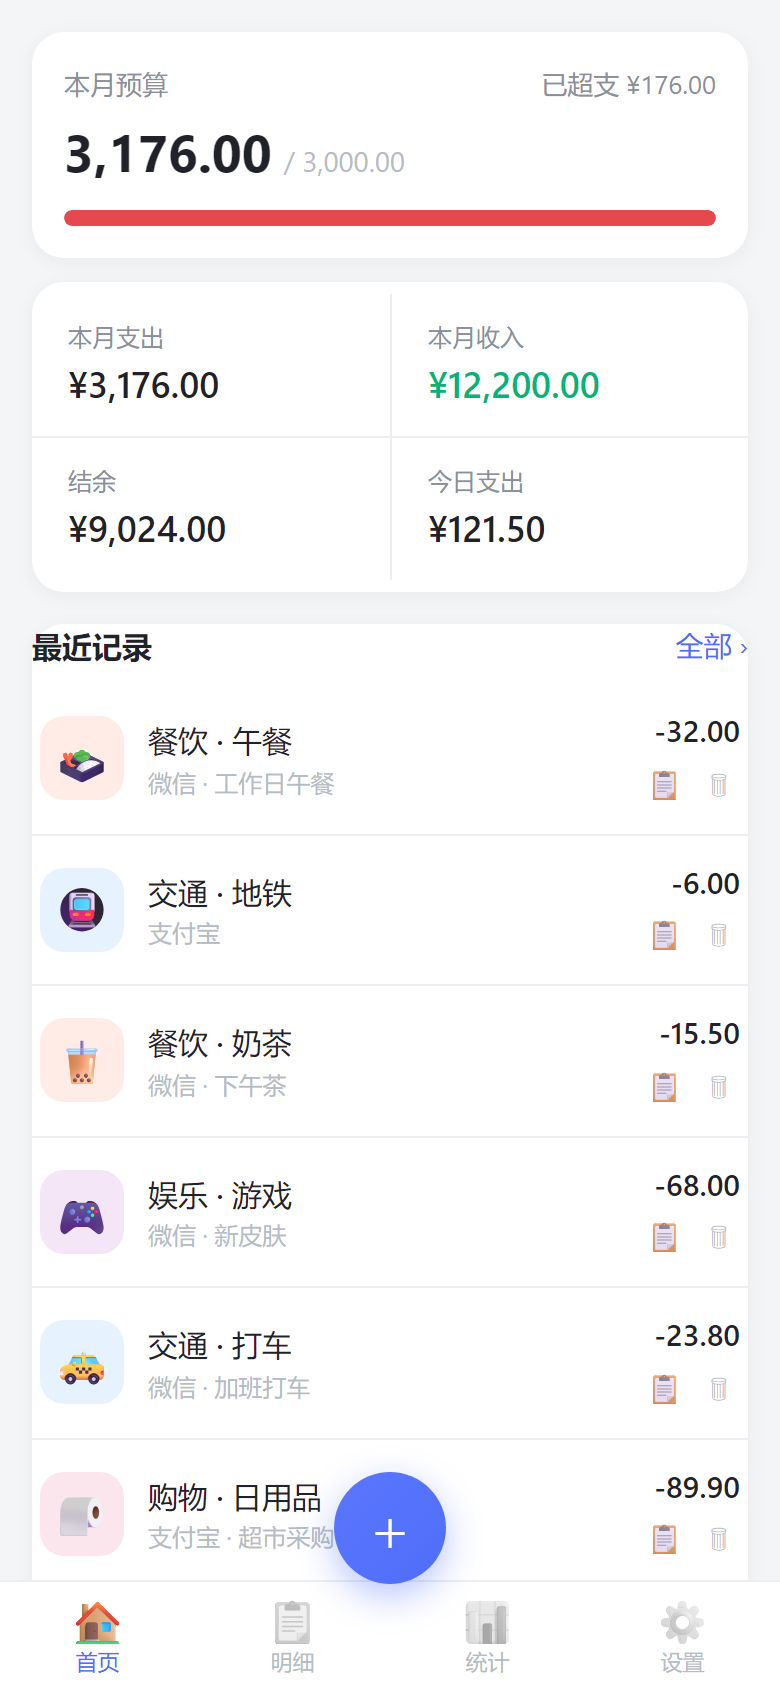
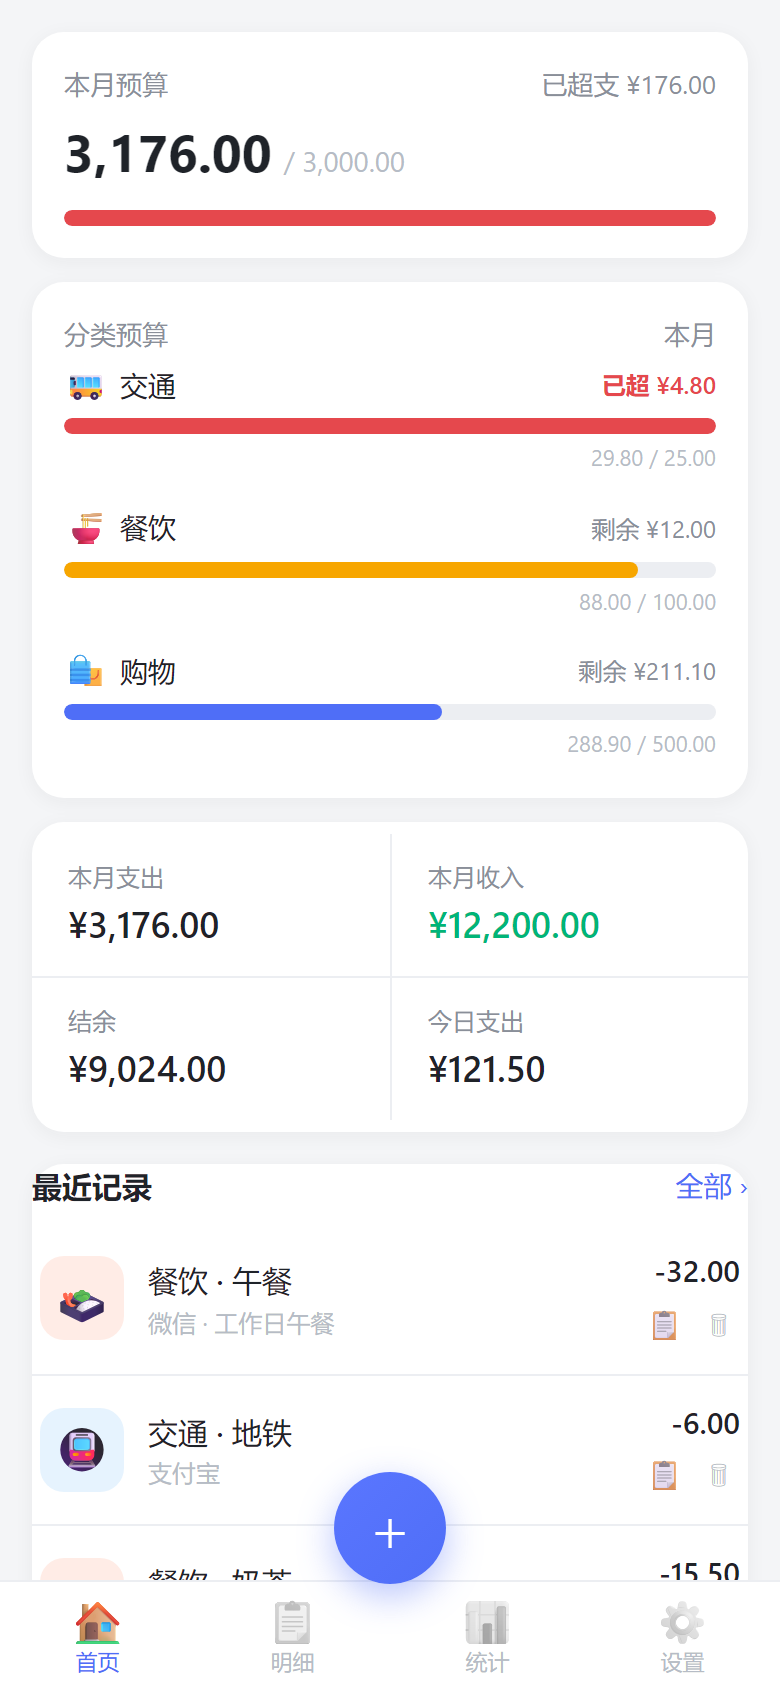
feat: 分类预算（按支出大类设置月度预算）
- 设置页新增「分类预算」子页，给支出大类逐个设金额，留空=不设
- 首页新增「分类预算」卡，只列已设项，按超支程度降序，沿用蓝/黄/红信号
- 记账或编辑保存时，若某分类跨过预算红线弹一次轻提示（不拦截）
- 删除分类时顺带清理其预算；导入导出带 categoryBudgets 并随 id 重映射
- 冒烟测试扩到 9 项，含导入往返验证预算在 id 重建后存活
- 更新 README、App 内帮助页与示例截图

diff --git a/js/app.js b/js/app.js
@@ -25,6 +25,7 @@ let transactions = [];
 let categories = [];
 let accounts = [];
 let budgetAmount = 0; // 分
+let categoryBudgets = {}; // { 支出大类ID: 分 }，只按月、只针对支出大类
 
 // ---------- 状态 ----------
 const state = {
@@ -67,15 +68,41 @@ function sumType(list, type) { return list.filter((t) => t.type === type).reduce
 
 // ---------- 数据加载 ----------
 async function loadData() {
-  const [t, c, a, budget] = await Promise.all([
+  const [t, c, a, budget, catBudgets] = await Promise.all([
     db.txns.all(), db.categories.all(), db.accounts.all(),
     db.settings.get('monthlyBudget', 0),
+    db.settings.get('categoryBudgets', {}),
   ]);
   transactions = t;
   categories = c;
   accounts = a;
   budgetAmount = budget;
+  categoryBudgets = (catBudgets && typeof catBudgets === 'object' && !Array.isArray(catBudgets)) ? catBudgets : {};
   transactions.sort((x, y) => y.date.localeCompare(x.date) || (y.createdAt || 0) - (x.createdAt || 0));
+}
+
+// 本月各支出大类的已花金额（子类自动汇总到父类）
+function monthSpentByRootCat(excludeId = null) {
+  const tm = thisMonthKey();
+  const map = new Map();
+  transactions.forEach((t) => {
+    if (t.type !== 'expense' || monthKey(t.date) !== tm) return;
+    if (excludeId && t.id === excludeId) return;
+    const rid = rootCatId(t.categoryId);
+    map.set(rid, (map.get(rid) || 0) + t.amount);
+  });
+  return map;
+}
+
+// 已设预算的支出大类，按「超支程度」降序（有问题的排前面）
+function categoryBudgetRows(spentMap) {
+  return Object.entries(categoryBudgets)
+    .filter(([cid, limit]) => limit > 0 && catById(cid))
+    .map(([cid, limit]) => {
+      const used = spentMap.get(cid) || 0;
+      return { cat: catById(cid), limit, used, ratio: used / limit };
+    })
+    .sort((a, b) => b.ratio - a.ratio);
 }
 
 // ---------- 渲染入口 ----------
@@ -141,6 +168,7 @@ function renderHome() {
   return `
   <div class="page home-page">
     ${budgetHtml}
+    ${renderCategoryBudgetCard()}
     <div class="overview-card">
       <div class="ov-item"><div class="ov-label">本月支出</div><div class="ov-val">${fmtMoney(expense)}</div></div>
       <div class="ov-item"><div class="ov-label">本月收入</div><div class="ov-val ov-in">${fmtMoney(income)}</div></div>
@@ -151,6 +179,32 @@ function renderHome() {
       <div class="section-head"><span>最近记录</span><button class="link-btn" data-action="go-list">全部 ›</button></div>
       ${recent.length ? recent.map(txnRow).join('') : emptyHint('还没有记录，点下方 ＋ 记一笔')}
     </div>
+  </div>`;
+}
+
+// 首页的「分类预算」卡：只列出已设预算的分类，一个都没设则整张卡不显示
+function renderCategoryBudgetCard() {
+  const rows = categoryBudgetRows(monthSpentByRootCat());
+  if (!rows.length) return '';
+  const body = rows.map(({ cat, limit, used, ratio }) => {
+    const pct = Math.min(100, Math.round(ratio * 100));
+    let cls = 'budget-bar-fill';
+    if (ratio >= 1) cls += ' over';
+    else if (ratio >= 0.8) cls += ' warn';
+    const over = ratio >= 1;
+    const status = over ? `已超 ${fmtMoney(used - limit)}` : `剩余 ${fmtMoney(limit - used)}`;
+    return `<div class="cb-row">
+      <div class="cb-top">
+        <span class="cb-name"><span class="cb-ico">${escapeHtml(cat.icon)}</span>${escapeHtml(cat.name)}</span>
+        <span class="cb-status ${over ? 'over' : ''}">${status}</span>
+      </div>
+      <div class="budget-bar"><div class="${cls}" style="width:${pct}%"></div></div>
+      <div class="cb-nums">${fmtMoneyShort(used)} / ${fmtMoneyShort(limit)}</div>
+    </div>`;
+  }).join('');
+  return `<div class="budget-card cb-card">
+    <div class="budget-top"><span>分类预算</span><span class="budget-status">本月</span></div>
+    ${body}
   </div>`;
 }
 
@@ -361,6 +415,7 @@ function renderStatsHtml(d) {
 function renderSettings() {
   if (state.subpage === 'cats') return renderCategoryManager();
   if (state.subpage === 'accts') return renderAccountManager();
+  if (state.subpage === 'catbudgets') return renderCategoryBudgetManager();
   if (state.subpage === 'about') return renderAbout();
   return renderSettingsHome();
 }
@@ -383,6 +438,7 @@ function renderSettingsHome() {
       <div class="set-card">
         <button class="set-row arrow" data-action="manage-cats">📂 分类管理 <span>›</span></button>
         <button class="set-row arrow" data-action="manage-accts">💳 账户管理 <span>›</span></button>
+        <button class="set-row arrow" data-action="manage-catbudgets">🎯 分类预算 <span>›</span></button>
       </div>
     </div>
     <div class="set-group">
@@ -418,7 +474,7 @@ function renderAbout() {
     </div></div>
 
     <div class="set-group"><div class="set-title">快速上手</div><div class="set-card">
-      <div class="about-block"><b>1.</b> 点底部 ＋，输入金额、选分类、选账户，保存即可（默认今天）。<br><b>2.</b> 首页看本月收支与预算，明细按日期回看，统计看图表。<br><b>3.</b> 设置里可自定义分类、账户，设每月预算帽。</div>
+      <div class="about-block"><b>1.</b> 点底部 ＋，输入金额、选分类、选账户，保存即可（默认今天）。<br><b>2.</b> 首页看本月收支与预算，明细按日期回看，统计看图表。<br><b>3.</b> 设置里可自定义分类、账户，设每月总预算和分类预算。</div>
     </div></div>
 
     <div class="set-group"><div class="set-title">数据安全</div><div class="set-card">
@@ -426,7 +482,7 @@ function renderAbout() {
     </div></div>
 
     <div class="set-group"><div class="set-title">小技巧</div><div class="set-card">
-      <div class="about-block">• 添加到主屏幕：浏览器菜单 →「添加到主屏幕」，之后像 App 一样全屏、离线使用。<br>• 预算帽只提醒不拦截：用掉 80% 进度条变黄、超支变红。<br>• 分类支持两级：大类下还能建子类，图标一键点选、也可自定义。</div>
+      <div class="about-block">• 添加到主屏幕：浏览器菜单 →「添加到主屏幕」，之后像 App 一样全屏、离线使用。<br>• 预算只提醒不拦截：用掉 80% 进度条变黄、超支变红。<br>• 分类预算：可给餐饮、居住等单个大类单独设预算，只设你在意的几个即可；记账刚好花超时会当场提示。<br>• 分类支持两级：大类下还能建子类，图标一键点选、也可自定义。</div>
     </div></div>
 
     <div class="set-group"><div class="set-title">版本</div><div class="set-card">
@@ -466,6 +522,42 @@ function renderCategoryManager() {
     html += `</div></div>`;
   });
   return html + `</div>`;
+}
+
+function renderCategoryBudgetManager() {
+  const parents = parentsOf('expense');
+  return `
+  <div class="page manage-page">
+    <div class="page-head"><button class="link-btn" data-action="back-settings">‹ 返回</button><span class="page-title">分类预算</span></div>
+    <div class="set-group">
+      <div class="set-card">
+        ${parents.map((p) => {
+          const v = categoryBudgets[p.id] || 0;
+          return `<div class="set-row cb-mgr-row">
+            <span class="cb-name"><span class="cb-ico">${escapeHtml(p.icon)}</span>${escapeHtml(p.name)}</span>
+            <div class="set-input-wrap"><span>¥</span><input class="cb-input" data-id="${p.id}" type="text" inputmode="decimal" value="${v ? fmtMoneyShort(v) : ''}" placeholder="不设"></div>
+          </div>`;
+        }).join('')}
+      </div>
+      <div class="cb-tip">留空表示不设该分类预算；仅对支出大类生效，每月自动重置。</div>
+    </div>
+    <button class="primary-btn full" data-action="save-catbudgets">保存预算</button>
+  </div>`;
+}
+
+async function saveCategoryBudgets() {
+  const next = {};
+  let count = 0;
+  $$('.cb-input').forEach((inp) => {
+    const v = parseAmount(inp.value);
+    if (v > 0) { next[inp.dataset.id] = v; count++; }
+  });
+  await db.settings.set('categoryBudgets', next);
+  categoryBudgets = next;
+  state.subpage = null;
+  state.tab = 'home';
+  render();
+  toast(count ? `已保存 ${count} 个分类预算` : '已清空分类预算');
 }
 
 function renderAccountManager() {
@@ -582,12 +674,30 @@ async function saveSheet() {
     createdAt: existing ? existing.createdAt : Date.now(),
     updatedAt: Date.now(),
   };
+  // 保存前判断：这笔是否让某分类由「未超」变「已超」（编辑时排除这条的旧值）
+  const overMsg = crossBudgetMessage(txn);
   if (state.editingId) await db.txns.update(txn);
   else await db.txns.add(txn);
   closeSheet();
   await loadData();
   render();
-  toast('已保存');
+  toast(overMsg || '已保存');
+}
+
+// 若本次保存使该分类本月支出跨过预算红线，返回提示文案，否则 null
+function crossBudgetMessage(txn) {
+  if (txn.type !== 'expense') return null;
+  if (monthKey(txn.date) !== thisMonthKey()) return null;
+  const rootId = rootCatId(txn.categoryId);
+  const limit = categoryBudgets[rootId] || 0;
+  if (!(limit > 0)) return null;
+  const before = monthSpentByRootCat(state.editingId).get(rootId) || 0;
+  const after = before + txn.amount;
+  if (before <= limit && after > limit) {
+    const c = catById(rootId);
+    return `${c ? c.name : '该分类'} 已超预算 ${fmtMoney(after - limit)}`;
+  }
+  return null;
 }
 
 async function copyTxn(id) {
@@ -790,6 +900,14 @@ async function deleteCategory(id) {
   const ok = await confirmDialog(`删除分类「${cat.name}」${kids.length ? `及其 ${kids.length} 个子分类` : ''}？`);
   if (!ok) return;
   for (const cid of ids) await db.categories.remove(cid);
+  // 顺带清掉被删分类的预算，避免留下孤儿数据
+  const nextBudgets = { ...categoryBudgets };
+  let budgetChanged = false;
+  ids.forEach((cid) => { if (nextBudgets[cid] !== undefined) { delete nextBudgets[cid]; budgetChanged = true; } });
+  if (budgetChanged) {
+    await db.settings.set('categoryBudgets', nextBudgets);
+    categoryBudgets = nextBudgets;
+  }
   await loadData();
   render();
   toast('已删除');
@@ -870,6 +988,7 @@ function exportJSON() {
     version: 1,
     exportedAt: new Date().toISOString(),
     budget: budgetAmount,
+    categoryBudgets,
     categories,
     accounts,
     transactions,
@@ -950,7 +1069,17 @@ function sanitizeImport(raw) {
   }));
 
   const budget = Number.isFinite(raw.budget) ? Math.max(0, Math.round(raw.budget)) : null;
-  return { categories: cats, accounts: accts, transactions: txns, budget };
+
+  // 分类预算：键是分类 id，必须跟着重映射后的新 id 走；老备份没有此字段则视为空
+  const rawBudgets = (raw.categoryBudgets && typeof raw.categoryBudgets === 'object' && !Array.isArray(raw.categoryBudgets))
+    ? raw.categoryBudgets : {};
+  const budgets = {};
+  Object.entries(rawBudgets).forEach(([oldId, v]) => {
+    const newId = catIdMap.get(oldId);
+    if (newId && Number.isFinite(v) && v > 0) budgets[newId] = Math.round(v);
+  });
+
+  return { categories: cats, accounts: accts, transactions: txns, budget, categoryBudgets: budgets };
 }
 
 function importJSON(file) {
@@ -1060,6 +1189,8 @@ async function onViewClick(e) {
     case 'set-budget': await saveBudget(); break;
     case 'manage-cats': state.subpage = 'cats'; render(); break;
     case 'manage-accts': state.subpage = 'accts'; render(); break;
+    case 'manage-catbudgets': state.subpage = 'catbudgets'; render(); break;
+    case 'save-catbudgets': await saveCategoryBudgets(); break;
     case 'open-about': state.subpage = 'about'; render(); break;
     case 'back-settings': state.subpage = null; render(); break;
     case 'add-parent': openCategoryModal({ type: t.dataset.type || 'expense' }); break;

diff --git a/js/db.js b/js/db.js
@@ -93,17 +93,21 @@ export async function clear(storeName) {
 }
 
 // 原子化导入：在单个事务里清空并写入全部数据，避免中途失败导致半导入状态
-export async function importAll({ categories: cats, accounts: accts, transactions: txns, budget }) {
+export async function importAll({ categories: cats, accounts: accts, transactions: txns, budget, categoryBudgets }) {
   const db = await openDB();
   const tx = db.transaction(['transactions', 'categories', 'accounts', 'settings'], 'readwrite');
+  const settings = tx.objectStore('settings');
   tx.objectStore('transactions').clear();
   tx.objectStore('categories').clear();
   tx.objectStore('accounts').clear();
   (cats || []).forEach((c) => tx.objectStore('categories').put(c));
   (accts || []).forEach((a) => tx.objectStore('accounts').put(a));
   (txns || []).forEach((t) => tx.objectStore('transactions').put(t));
-  if (typeof budget === 'number') tx.objectStore('settings').put({ key: 'monthlyBudget', value: budget });
-  else tx.objectStore('settings').delete('monthlyBudget');
+  if (typeof budget === 'number') settings.put({ key: 'monthlyBudget', value: budget });
+  else settings.delete('monthlyBudget');
+  // 分类预算同样以备份为准：没有就置空，不留旧值
+  if (categoryBudgets && Object.keys(categoryBudgets).length) settings.put({ key: 'categoryBudgets', value: categoryBudgets });
+  else settings.delete('categoryBudgets');
   await txDone(tx);
 }
 

diff --git a/css/style.css b/css/style.css
@@ -124,6 +124,18 @@ input, select { font-family: inherit; font-size: inherit; color: var(--text); }
 .budget-bar-fill.warn { background: var(--warn); }
 .budget-bar-fill.over { background: var(--danger); }
 
+/* ===== 分类预算 ===== */
+.cb-row { margin-bottom: 14px; }
+.cb-row:last-child { margin-bottom: 2px; }
+.cb-top { display: flex; justify-content: space-between; align-items: center; gap: 8px; margin-bottom: 5px; }
+.cb-name { display: flex; align-items: center; gap: 6px; font-size: 14px; min-width: 0; }
+.cb-ico { font-size: 16px; }
+.cb-status { font-size: 12px; color: var(--text-2); white-space: nowrap; }
+.cb-status.over { color: var(--danger); font-weight: 600; }
+.cb-nums { font-size: 11px; color: var(--text-3); margin-top: 4px; text-align: right; }
+.cb-mgr-row .cb-name { flex: 1; font-size: 15px; }
+.cb-tip { font-size: 12px; color: var(--text-3); margin: 8px 4px 0; line-height: 1.6; }
+
 .overview-card {
   display: grid; grid-template-columns: 1fr 1fr;
   padding: 6px 0; margin-bottom: 16px;

diff --git a/README.md b/README.md
@@ -19,7 +19,8 @@
 - **记一笔**：3 秒完成，默认今天日期、大金额键盘、常用分类、账户标签、选填备注。
 - **两级分类**：预置 9 大支出类 + 5 大收入类及常用子类；图标一键点选、颜色、归属都可自定义。
 - **账户标签**：微信 / 支付宝 / 现金 / 银行卡 / 信用卡，可自定义。
-- **预算红线**：设每月支出上限，用掉 80% 进度条变黄、超支变红（只提醒、不拦截）。
+- **预算红线**：设每月总支出上限，用掉 80% 进度条变黄、超支变红（只提醒、不拦截）。
+- **分类预算**：可给餐饮、居住等单个支出大类单独设预算，只设你在意的几个；记账刚好花超时当场轻提示，不打断记账。
 - **统计报表**：本月 / 上月 / 近 3 月 / 今年 / 全部 的收支结余、日均支出、分类占比环形图、支出趋势柱状图。
 - **明细**：按日期分组，支持类型 / 分类 / 账户 / 月份筛选，可编辑、复制、删除。
 - **数据安全**：JSON 全量备份与恢复、CSV 明细导出（Excel 可直接打开）。
@@ -42,6 +43,7 @@
 - **记一笔**：点底部 ➕，输入金额 → 选分类 → 选账户 → 保存（日期默认今天，可改）。
 - **分类与账户**：设置 → 分类管理 / 账户管理，可增删改；大类下还能建子类，图标点选、也可自定义 emoji。
 - **预算**：设置 → 每月支出预算帽，保存后首页显示进度条。
+- **分类预算**：设置 → 分类预算，给支出大类逐个填金额（留空=不设），保存后首页出现「分类预算」卡，按超支程度排序。
 - **备份与恢复**：设置 → 导出备份（JSON）下载文件；换手机或清理浏览器数据前务必先备份，再到新设备导入即可恢复。
 
 ## 🔒 数据安全
